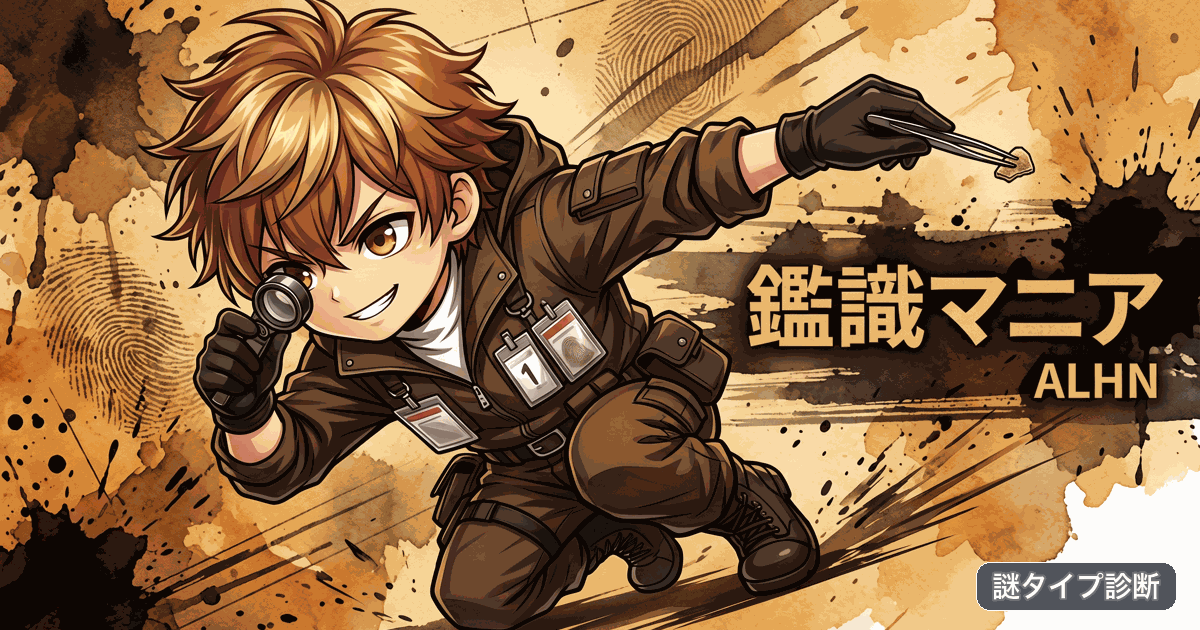
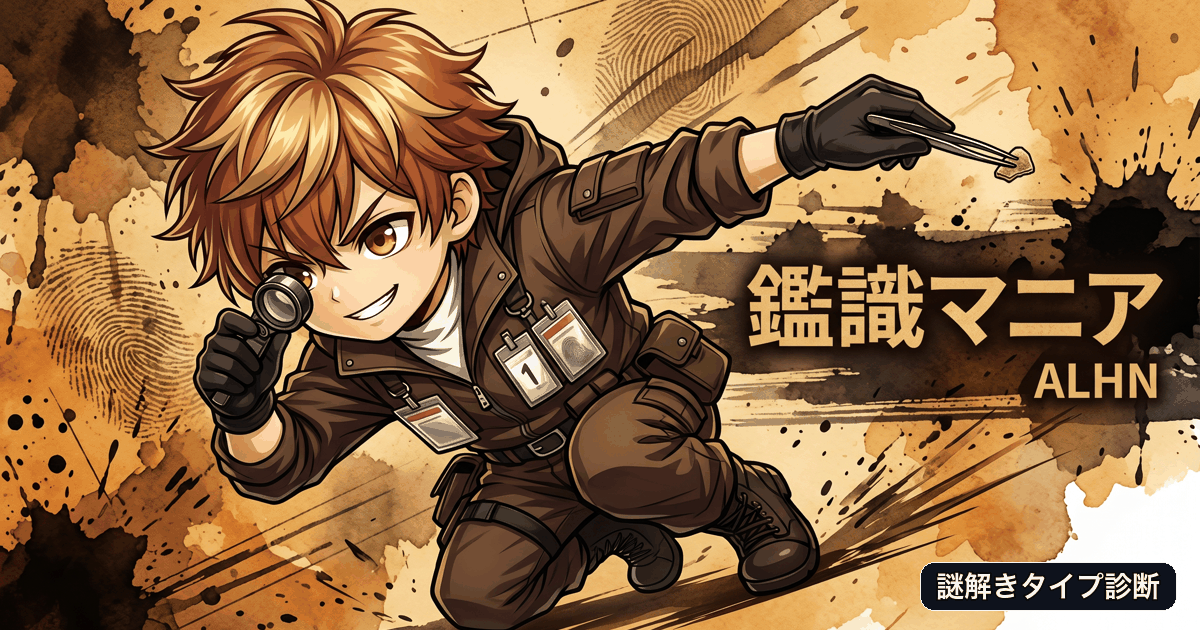
Update OGP images and brand label text
- Replaced multiple OGP images (ABHC, ABHN, ABTC, ABTN, ALHC, ALHN, ALTC, ALTN, DBHC, DBHN, DBTC, DBTN, DLHC, DLHN, DLTC, DLTN) with updated versions to enhance visual quality.
- Updated brand label text from `謎タイプ診断` to `謎解きタイプ診断` in various documentation and scripts for consistency.

diff --git a/skills/madamistype-type-ogp-images/scripts/ogp_compositor.py b/skills/madamistype-type-ogp-images/scripts/ogp_compositor.py
@@ -60,7 +60,7 @@ def compose_ogp(
     output_path: Path,
     type_data: dict[str, Any],
     title_placement: str,
-    brand_label: str = "謎タイプ診断",
+    brand_label: str = "謎解きタイプ診断",
 ) -> dict[str, Any]:
     image, image_draw, _ = _import_pillow()
 
@@ -101,8 +101,12 @@ def compose_ogp(
         stroke_fill=(10, 12, 18, 150),
     )
 
+    # Quantize the final card back to a palette PNG so published OGP assets
+    # stay lightweight like the previously committed files.
+    output_image = composed.convert("RGB").quantize(colors=256)
+
     output_path.parent.mkdir(parents=True, exist_ok=True)
-    composed.save(output_path, format="PNG")
+    output_image.save(output_path, format="PNG", optimize=True)
 
     return {
         "targetSize": {"width": TARGET_SIZE[0], "height": TARGET_SIZE[1]},

diff --git a/skills/madamistype-type-ogp-images/scripts/generate_type_ogp_batch.py b/skills/madamistype-type-ogp-images/scripts/generate_type_ogp_batch.py
@@ -72,7 +72,7 @@ def parse_args() -> argparse.Namespace:
     parser.add_argument("--resolution", default="2K", help="fal.ai resolution. Default: 2K")
     parser.add_argument("--poll-interval", type=int, default=8, help="Polling interval in seconds. Default: 8")
     parser.add_argument("--select", help="Manual candidate overrides such as OFEI:2,TRLP:4")
-    parser.add_argument("--brand-label", default="謎タイプ診断", help="Small brand label added at the bottom-right of the final OGP.")
+    parser.add_argument("--brand-label", default="謎解きタイプ診断", help="Small brand label added at the bottom-right of the final OGP.")
     parser.add_argument(
         "--reference-url-base",
         help=(

diff --git a/skills/madamistype-type-ogp-images/SKILL.md b/skills/madamistype-type-ogp-images/SKILL.md
@@ -14,7 +14,7 @@ Treat these as the only canonical inputs:
 - `data/types/*.json`
 - `public/types/{typeCode}_chibi.png`
 
-The goal is not to paste static chibi art into a template. Regenerate each type as the same character in a much more aggressive, share-stopping pose, and have the fal.ai image model render the type text inside the design itself. The local compositor should only add a small `謎タイプ診断` label at the bottom-right.
+The goal is not to paste static chibi art into a template. Regenerate each type as the same character in a much more aggressive, share-stopping pose, and have the fal.ai image model render the type text inside the design itself. The local compositor should only add a small `謎解きタイプ診断` label at the bottom-right.
 
 If the overall design or acceptance criteria change, read [type-ogp-image-spec.md](../../docs/type-ogp-image-spec.md).
 
@@ -96,7 +96,7 @@ The model should generate the near-final OGP image, including the exact `typeNam
 
 Always use the compositor to add:
 
-- the small `謎タイプ診断` brand label at the bottom-right
+- the small `謎解きタイプ診断` brand label at the bottom-right
 
 Read [references/ogp-layout-rules.md](./references/ogp-layout-rules.md) when adjusting final layout, safe areas, or type treatment.
 
@@ -143,7 +143,7 @@ Use for default candidate choice and manual override parsing.
 
 ### `scripts/ogp_compositor.py`
 
-Use for deterministic `1200x630` output and the small bottom-right `謎タイプ診断` label.
+Use for deterministic `1200x630` output and the small bottom-right `謎解きタイプ診断` label.
 
 ### `scripts/write_manifest.py`
 
@@ -157,7 +157,7 @@ Use for JSON and text artifact writing plus batch-report assembly.
 - Preserve character identity first, then push pose intensity as far as possible
 - Prefer prompt changes over editing `data/types/*.json` unless the user asks to change source data
 - Have the model render the final `typeName` and `typeCode` inside the design
-- Keep local post-processing text limited to the bottom-right `謎タイプ診断` label
+- Keep local post-processing text limited to the bottom-right `謎解きタイプ診断` label
 
 ## References
 

diff --git a/skills/madamistype-type-ogp-images/references/ogp-layout-rules.md b/skills/madamistype-type-ogp-images/references/ogp-layout-rules.md
@@ -14,7 +14,7 @@ Keep local compositor text minimal:
 
 - model-rendered primary: `typeName`
 - model-rendered secondary: `typeCode`
-- compositor-added tertiary: small `謎タイプ診断` label at the bottom-right
+- compositor-added tertiary: small `謎解きタイプ診断` label at the bottom-right
 
 Do not add explanation copy inside the final OGP unless the user explicitly asks for a different treatment.
 
@@ -46,7 +46,7 @@ The compositor should:
 - crop the hero art to cover the full frame
 - preserve the most expressive part of the pose
 - avoid covering the model-rendered title text
-- add only the small bottom-right `謎タイプ診断` label
+- add only the small bottom-right `謎解きタイプ診断` label
 
 ## Brand Direction
 

diff --git a/skills/madamistype-type-ogp-images/references/io-schema.md b/skills/madamistype-type-ogp-images/references/io-schema.md
@@ -89,6 +89,6 @@ public/ogp/types/
 - `selected/hero.png`: chosen candidate copied into a stable path
 - `selection.json`: machine-readable selected candidate metadata
 - `selection-note.txt`: short human-readable selection rationale
-- `final/ogp.png`: final OGP image with only the small bottom-right `謎タイプ診断` label added locally
+- `final/ogp.png`: final OGP image with only the small bottom-right `謎解きタイプ診断` label added locally
 - `final/meta.json`: per-type execution summary
 - `batch-report.json`: batch-level status report
